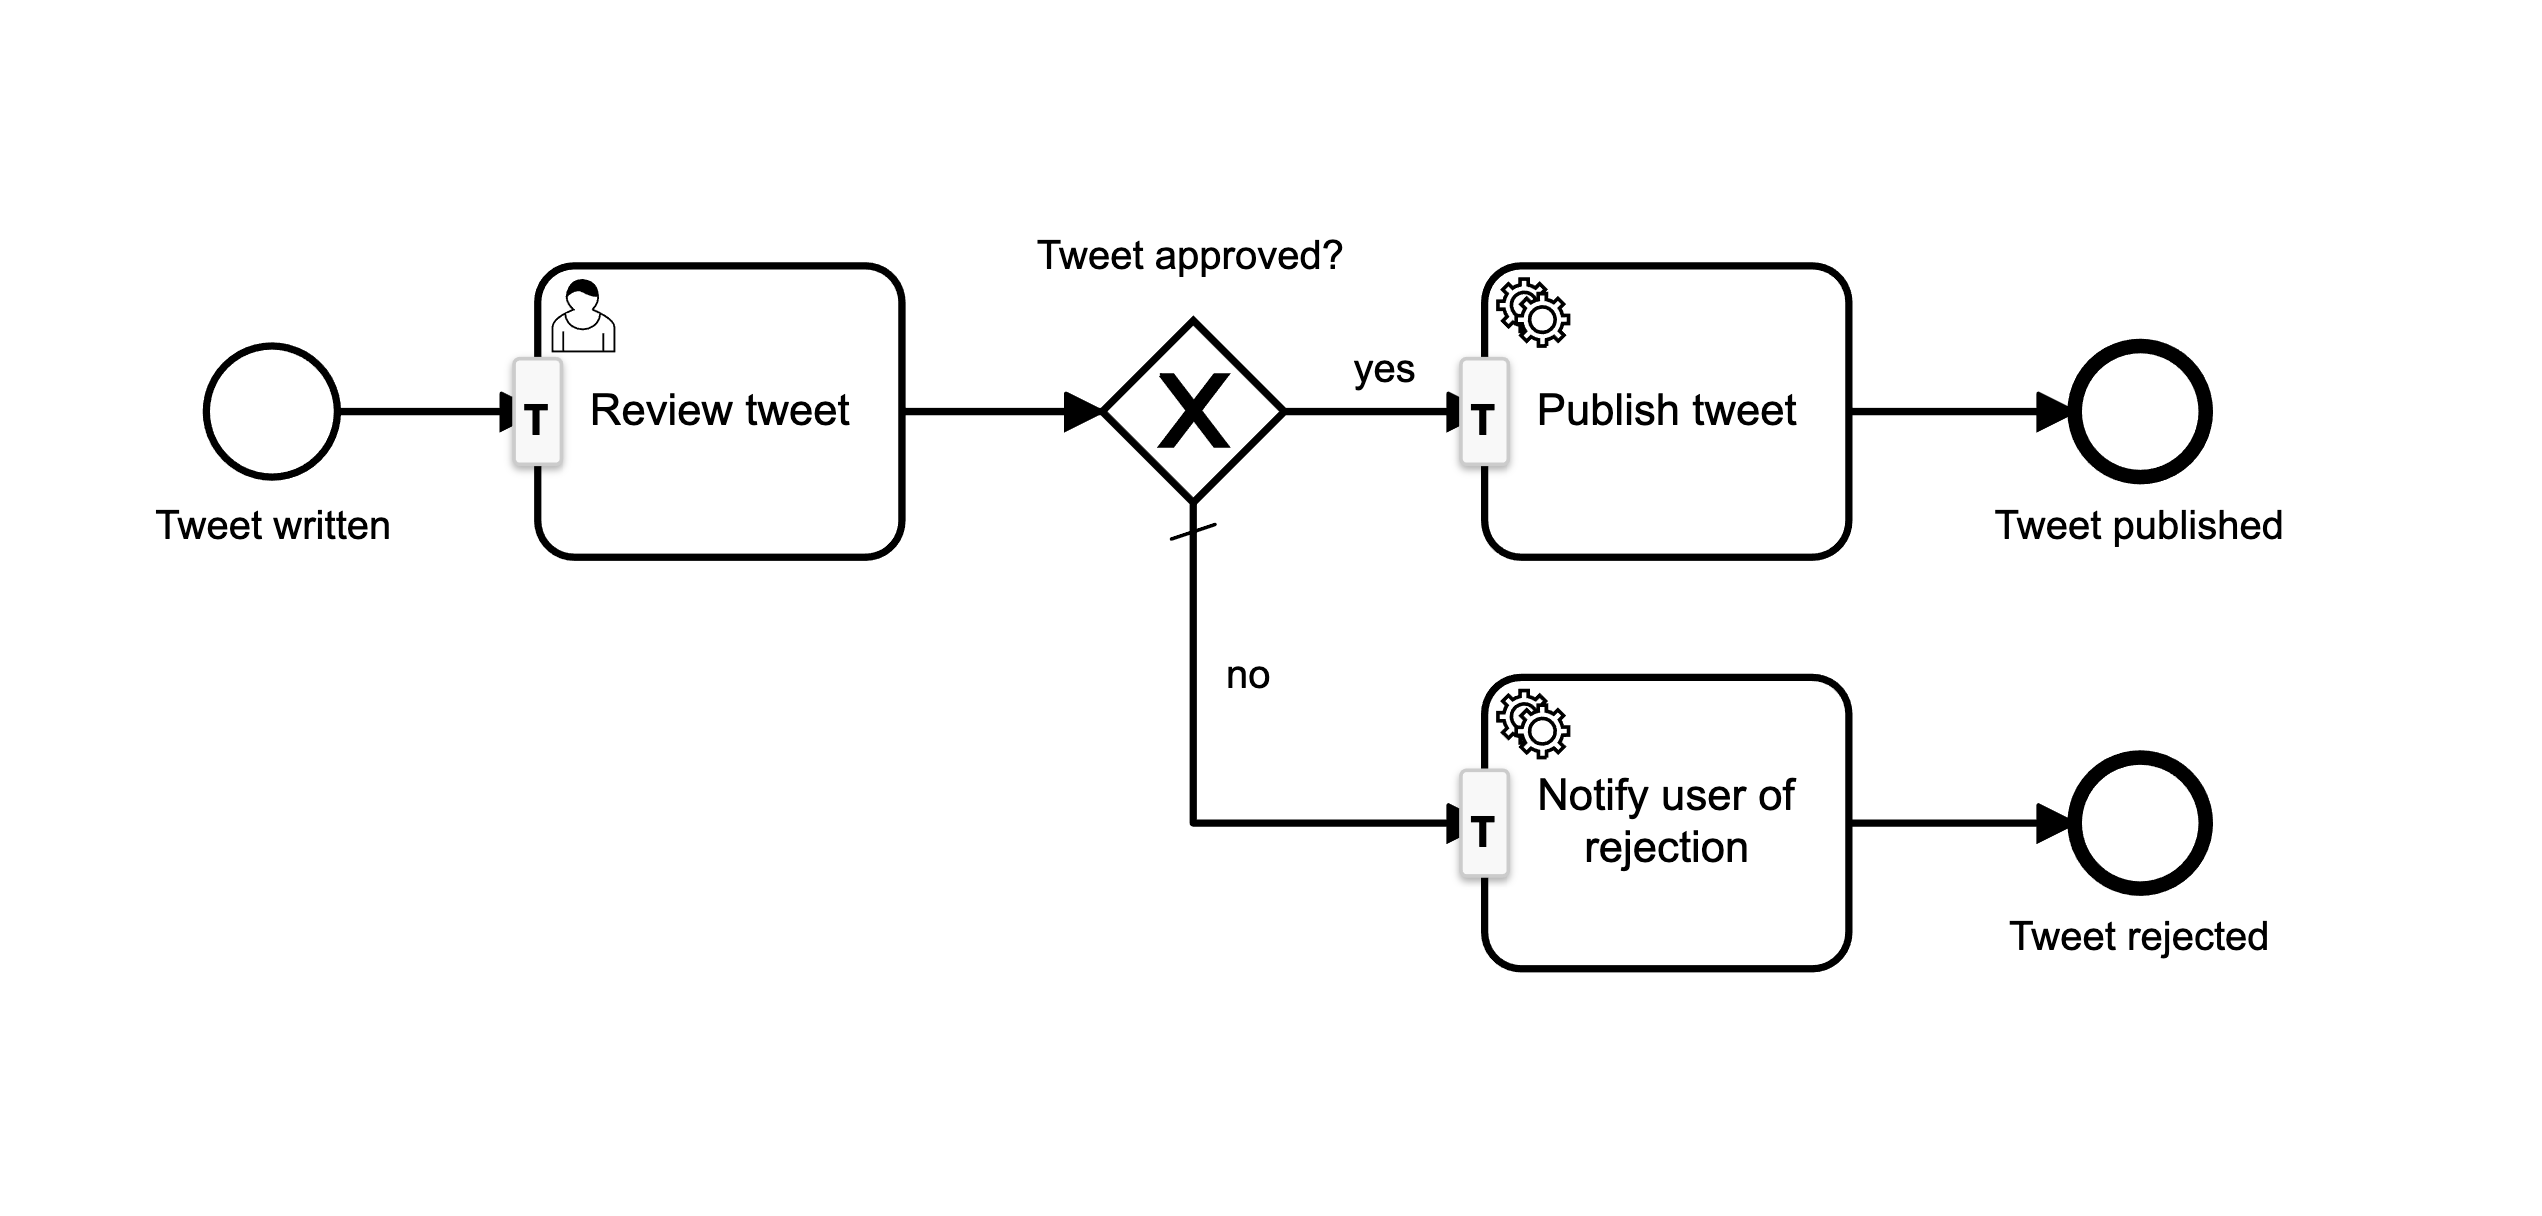
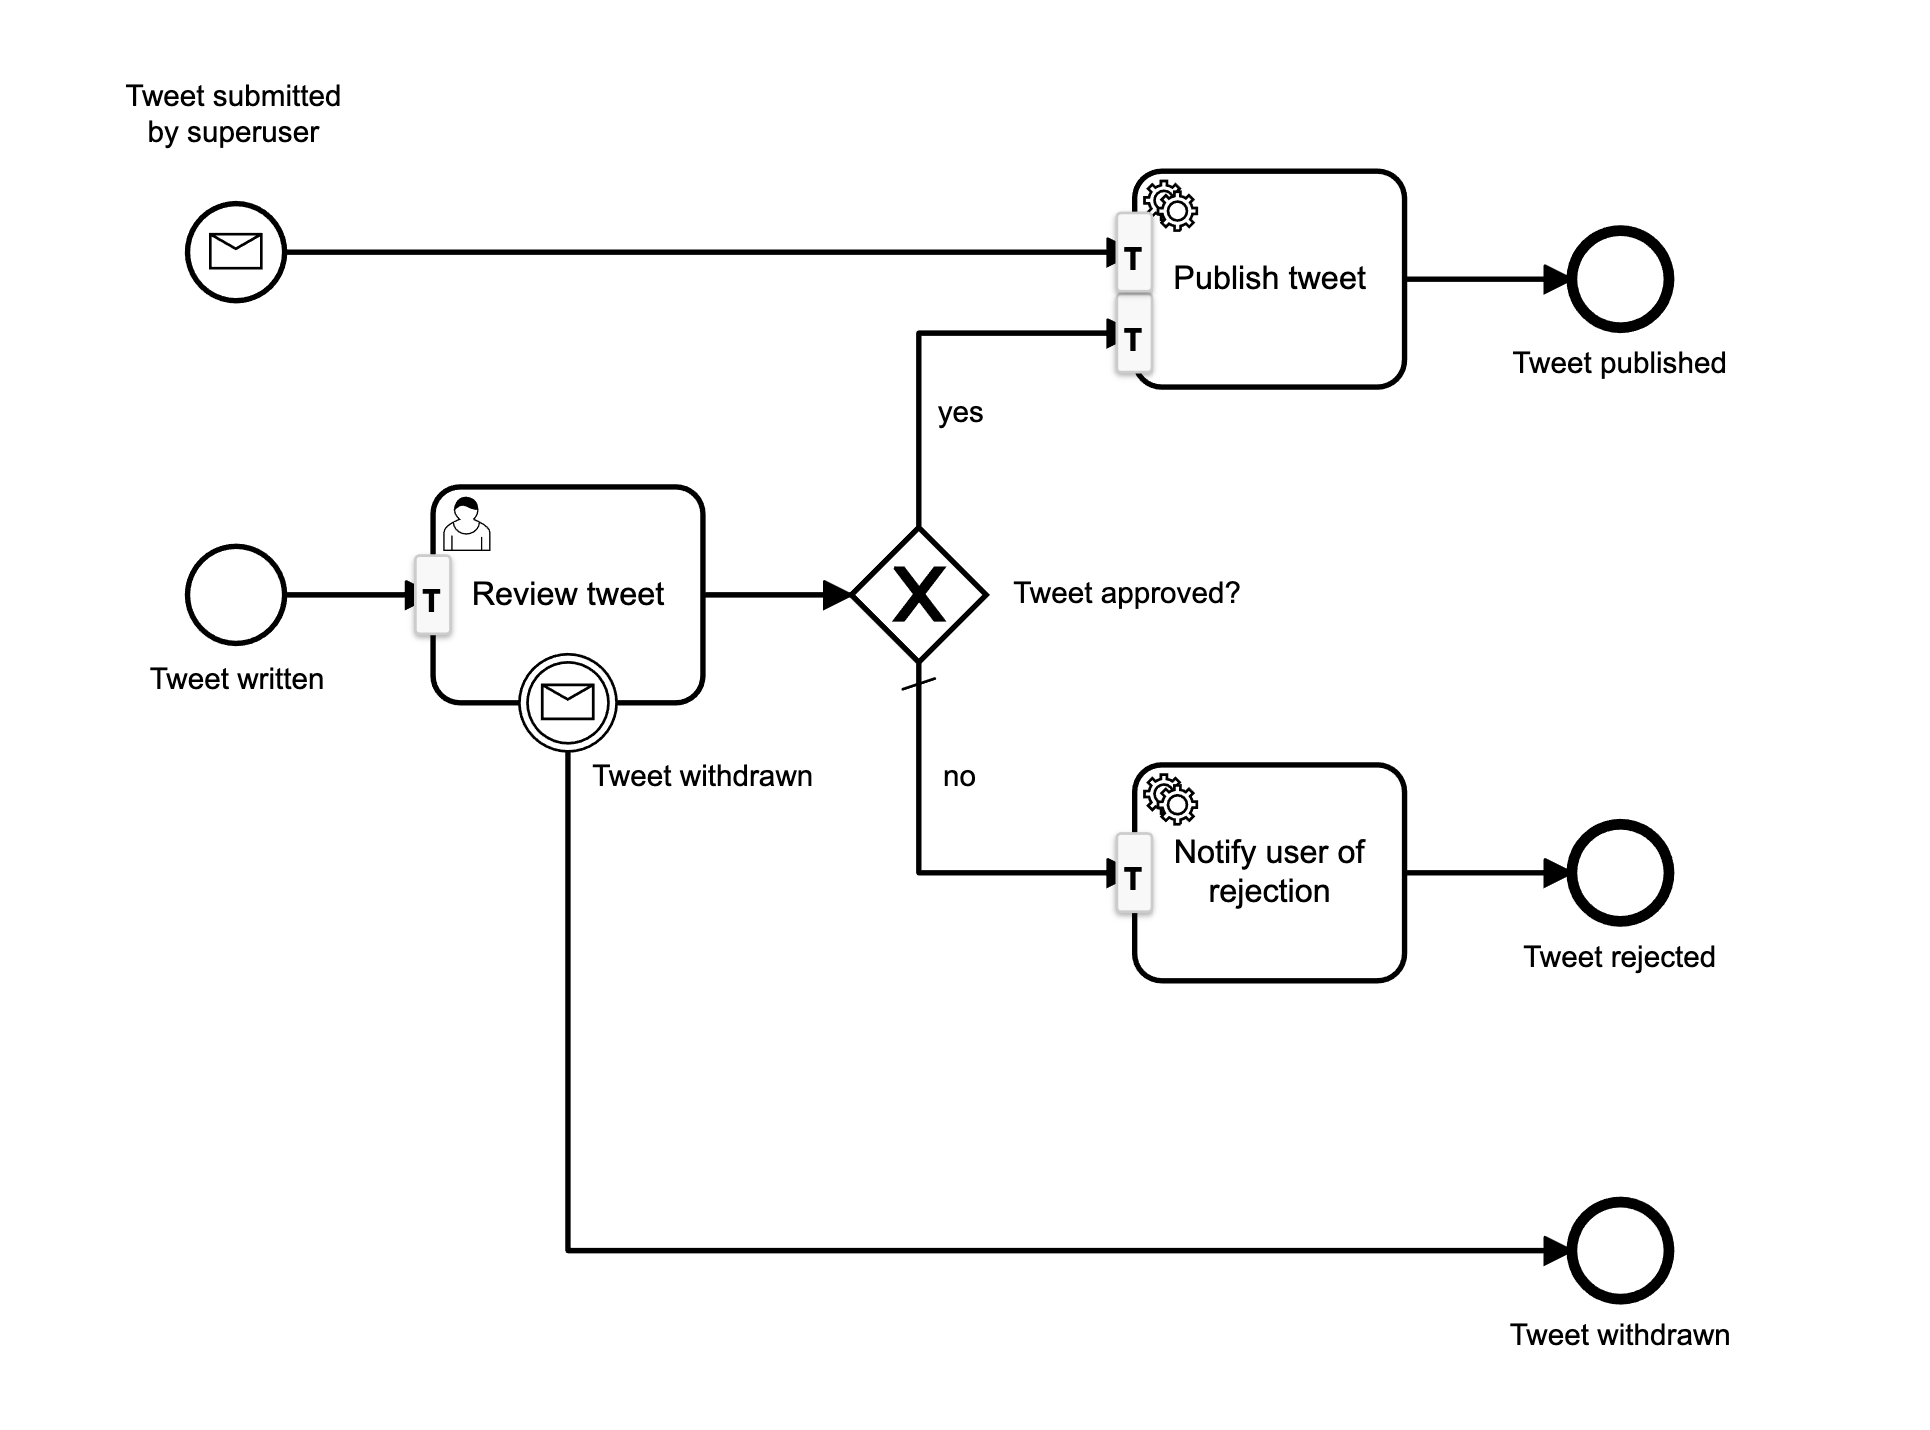
[Camunda Platform for Java Developers] Twitter QA - Message correlation

diff --git a/academy.camunda.com/javadev/twitter-qa/src/test/kotlin/com/github/gerdreiss/twitterqa/TwitterQaProcessTests.kt b/academy.camunda.com/javadev/twitter-qa/src/test/kotlin/com/github/gerdreiss/twitterqa/TwitterQaProcessTests.kt
@@ -12,10 +12,13 @@ import org.camunda.bpm.extension.process_test_coverage.junit5.ProcessEngineCover
 import org.junit.jupiter.api.BeforeEach
 import org.junit.jupiter.api.Test
 import org.junit.jupiter.api.extension.ExtendWith
+import org.mockito.ArgumentMatchers.anyString
 import org.mockito.Mock
 import org.mockito.Mockito
 import org.mockito.MockitoAnnotations
 import kotlin.random.Random
+
+private const val PROCESS_KEY = "TwitterQAProcess"
 
 @ExtendWith(ProcessEngineCoverageExtension::class)
 @Deployment(resources = ["processes/twitter-qa.bpmn"])
@@ -28,22 +31,22 @@ class TwitterQaProcessTests {
     fun init() {
         MockitoAnnotations.openMocks(this)
         Mocks.register("publishTweetDelegate", PublishTweetDelegate(twitterService!!))
+
+        Mockito
+            .`when`(twitterService!!.publishTweet(anyString()))
+            .thenReturn(Random.nextLong())
     }
 
     @Test
     fun `test approving a tweet`() {
 
-        Mockito
-            .`when`(twitterService!!.publishTweet("tweeeet!"))
-            .thenReturn(1L)
-
         val processInstance = runtimeService()
             .startProcessInstanceByKey(
-                "TwitterQAProcess",
-                mapOf(TWEET_CONTENT.name to tweetContent())
+                PROCESS_KEY,
+                mapOf(TWEET_CONTENT.name to tweetContent(4))
             )
 
-        assertThat(processInstance).isWaitingAt(findId("Review tweet"))
+        assertThat(processInstance).isStarted.isWaitingAt(findId("Review tweet"))
 
         val taskList = taskService()
             .createTaskQuery()
@@ -62,7 +65,7 @@ class TwitterQaProcessTests {
         //assertThat(jobList).isNotNull.hasSize(1)
         //execute(jobList.first())
         // the short version
-        execute(job())
+        execute(job()) // Execute publish tweet job
 
         assertThat(processInstance).hasPassed(findId("Tweet published"))
         assertThat(processInstance).isEnded
@@ -78,8 +81,8 @@ class TwitterQaProcessTests {
         //    )
 
         val processInstance = runtimeService()
-            .createProcessInstanceByKey("TwitterQAProcess")
-            .setVariable(TWEET_CONTENT.name, tweetContent())
+            .createProcessInstanceByKey(PROCESS_KEY)
+            .setVariable(TWEET_CONTENT.name, tweetContent(8))
             .setVariable(APPROVED.name, false)
             .startAfterActivity(findId("Review tweet"))
             .execute()
@@ -95,15 +98,50 @@ class TwitterQaProcessTests {
         //    .taskCandidateGroup("management")
         //    .processInstanceId(processInstance.id)
         //    .list()
-        //
         //assertThat(taskList).isNotNull.hasSize(1)
-        //
         //taskService().complete(taskList[0].id, mapOf(APPROVED.name to false))
 
-        assertThat(processInstance).hasPassed(findId("Tweet rejected"))
-        assertThat(processInstance).isEnded
+        assertThat(processInstance).isEnded.hasPassed(findId("Tweet rejected"))
     }
 
-    private fun tweetContent(): String = "Exercise 5 test - 0x" + Random.nextBits(16)
+    @Test
+    fun `test superuser tweet`() {
+
+        val processInstance = runtimeService()
+            .createMessageCorrelation("superuserTweet")
+            .setVariable(TWEET_CONTENT.name, tweetContent(11))
+            .correlateWithResult()
+            .processInstance
+
+        assertThat(processInstance).isStarted
+
+        execute(job()) // Execute publish tweet job
+
+        assertThat(processInstance).isEnded.hasPassed(findId("Tweet published"))
+    }
+
+    @Test
+    fun `test tweet withdrawn`() {
+
+        val tweetContent = tweetContent(11)
+
+        val processInstance = runtimeService()
+            .startProcessInstanceByKey(
+                PROCESS_KEY,
+                mapOf(TWEET_CONTENT.name to tweetContent)
+            )
+
+        assertThat(processInstance).isStarted.isWaitingAt(findId("Review tweet"))
+
+        runtimeService()
+            .createMessageCorrelation("tweetWithdrawn")
+            .processInstanceVariableEquals(TWEET_CONTENT.name, tweetContent)
+            .correlateWithResult()
+
+        assertThat(processInstance).isEnded.hasPassed("TweetWithdrawnEndEvent")
+    }
+
+    private fun tweetContent(exercise: Int): String =
+        "Exercise $exercise test - 0x" + Random.nextBits(16)
 
 }
